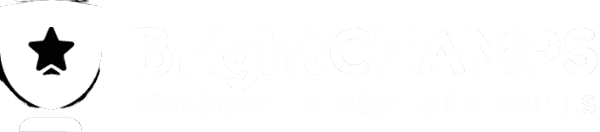
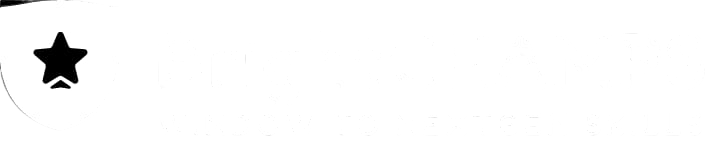
modify: spons image

diff --git a/src/pages/LandingPart.jsx b/src/pages/LandingPart.jsx
@@ -1,6 +1,6 @@
 import React from "react";
 import AarohanLogo from "../images/aarohanLogo.png"
-import SponsLogo from "../images/spons.jpg"
+import SponsLogo from "../images/spons.png"
 import ClockTower from "../images/clocktower.svg"
 import Ellipse1 from "../images/ellipse1.png"
 import Ellipse from "../images/ellipse2.png"
@@ -35,7 +35,7 @@ export default function Landing() {
             <div className="dummy">
                 <div className="landing-text-container">
                     <img src={AarohanLogo} alt="logo" draggable="false" />
-                    <img src={SponsLogo} alt="logo" draggable="false" />
+                    <img src={SponsLogo} alt="logo" draggable="false" className="spons"/>
                     <div>
                         <Link to="/Registration">
                             <button>REGISTER</button>

diff --git a/src/Styles/global.css b/src/Styles/global.css
@@ -120,6 +120,10 @@ input#hamburger {
     height: auto;
 }
 
+.spons{
+    width: 15rem !important;
+}
+
 .landing-text-container button {
     font-family: 'Poppins', sans-serif;
     padding: 0.2rem;
@@ -379,6 +383,10 @@ svg {
     .landing-text-container img {
         width: 20rem;
     }
+
+    .spons{
+        width: 10rem !important;
+    }
 }
 
 @media only screen and (max-width: 1110px) {
@@ -414,6 +422,10 @@ svg {
 
     .landing-text-container img {
         width: 15rem;
+    }
+
+    .spons{
+        width: 8rem !important;
     }
 
     .landing-text-container button {
